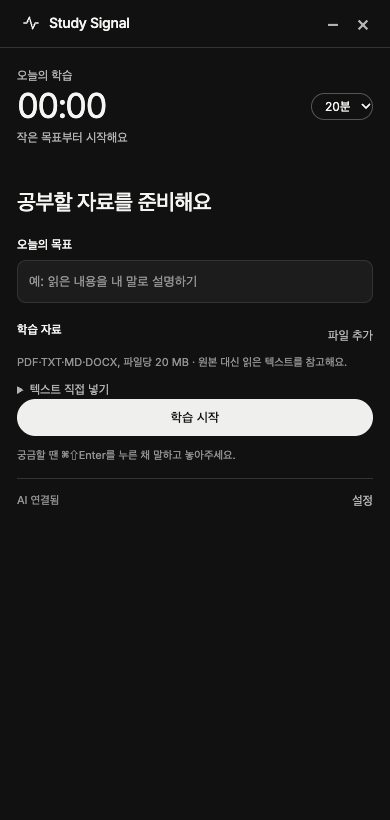
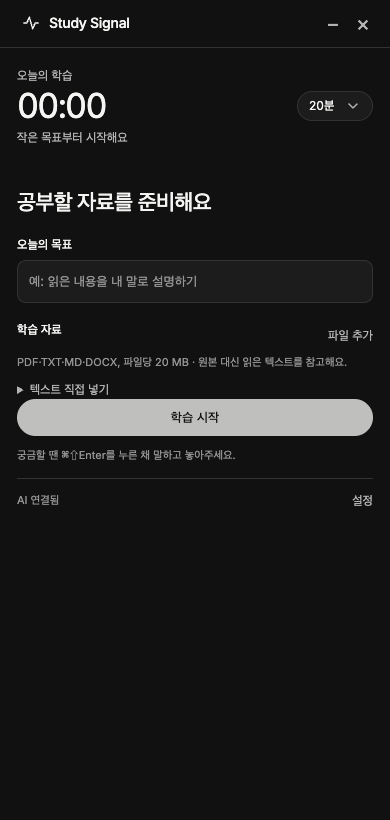
feat: unify select controls and connect live heart collector

Changed region(s): [[0.0308, 0.4878, 0.9538, 0.5488], [0.8, 0.122, 0.9538, 0.1524]]

diff --git a/overlay/index.html b/overlay/index.html
@@ -1,7 +1,7 @@
 <!doctype html>
 <html lang="ko"><head><meta charset="utf-8"><meta name="viewport" content="width=device-width,initial-scale=1">
 <meta http-equiv="Content-Security-Policy" content="default-src 'self'; script-src 'self' 'wasm-unsafe-eval'; style-src 'self'; font-src 'self'; img-src 'self' data: blob:; media-src 'self' blob:; connect-src 'self'; object-src 'none'; base-uri 'none'; form-action 'none'">
-<title>Study Signal</title><link rel="stylesheet" href="study-theme.css"><link rel="stylesheet" href="study.css"></head><body>
+<title>Study Signal</title><link rel="stylesheet" href="study-theme.css"><link rel="stylesheet" href="study.css"><link rel="stylesheet" href="study-select.css"></head><body>
 <header class="drag"><div class="brand"><svg viewBox="0 0 24 24" aria-hidden="true"><path d="M3 12h4l3-7 4 14 3-7h4"/></svg>Study Signal</div><span id="voice-indicator" hidden aria-live="polite">● 녹음 중</span><span id="mini-clock">00:00</span><div class="window-controls"><button id="collapse" aria-label="접기 또는 펼치기">−</button><button id="close" aria-label="메뉴 막대로 숨기기">×</button></div></header>
 <main>
 <div id="study-view">
@@ -19,7 +19,7 @@
 <details id="materials-manage" class="setting-group"><summary>학습 자료</summary><button id="materials-manage-add">자료 파일 추가</button><ul id="materials-manage-list" class="material-list"></ul><p id="materials-manage-note"></p><p>자료에서 읽은 텍스트를 질문할 때 함께 보내요. PDF 원본은 업로드하지 않아요.</p></details>
 <details id="plan-settings" class="setting-group"><summary>체크리스트</summary><label><input id="checklist-visible" type="checkbox" checked> 좌상단에 체크리스트 표시</label><label><input id="checklist-ai" type="checkbox"> 자료를 모델에 보내 학습 순서 정리</label><p>완료는 직접 체크하며, 자료별로 저장해요.</p><p id="checklist-status"></p><button id="checklist-regenerate">자료로 목록 다시 만들기</button><ol id="checklist-editor" class="checklist-editor"></ol></details>
 <details id="connection-settings" class="setting-group"><summary>AI 연결</summary><form id="connection-form"><label class="switch"><input id="ai" type="checkbox" checked> AI 도움 사용</label><label for="connection-key">OpenRouter API 키</label><input id="connection-key" type="password" autocomplete="off" spellcheck="false" maxlength="1024" placeholder="새 키를 입력할 때만 채워주세요"><p id="connection-key-state">연결 설정을 확인하고 있어요.</p><label for="connection-model">설명 모델 ID</label><input id="connection-model" value="anthropic/claude-sonnet-5.5" maxlength="255" spellcheck="false"><button id="connection-save" type="submit">저장 후 앱 다시 시작</button><p class="helper">키는 이 Mac에만 저장해요. 학습을 종료한 뒤 연결 설정을 변경해주세요.</p></form></details>
-<details id="extra-settings" class="setting-group"><summary>화면 · Apple Watch · 기록</summary><label class="opacity-control">배경 불투명도 <input id="opacity" type="range" min="72" max="98" value="90"><span id="opacity-value">90%</span></label><div class="watch-settings"><span>Apple Watch · 서버</span><strong id="heart-bpm">— <small>bpm</small></strong><button id="heart-toggle">서버 연결</button><p id="heart-status">심박 서버 미연결</p><p id="signal-note" class="signal-note">심박은 상태를 확인하는 참고 신호예요.</p></div><label><input id="training-consent" type="checkbox"> 검토한 텍스트 답변을 학습 예시로 저장</label><p class="helper">음성 화면 답변은 학습 예시로 저장하지 않아요.</p><p id="personalization">개인화 기록은 아직 없어요.</p></details>
+<details id="extra-settings" class="setting-group"><summary>화면 · Apple Watch · 기록</summary><label class="opacity-control">배경 불투명도 <input id="opacity" type="range" min="72" max="98" value="90"><span id="opacity-value">90%</span></label><div class="watch-settings"><span>심박 서버</span><strong id="heart-bpm">— <small>bpm</small></strong><button id="heart-toggle">서버 연결</button><p id="heart-status">심박 서버 미연결</p><p id="signal-note" class="signal-note">심박은 상태를 확인하는 참고 신호예요.</p></div><label><input id="training-consent" type="checkbox"> 검토한 텍스트 답변을 학습 예시로 저장</label><p class="helper">음성 화면 답변은 학습 예시로 저장하지 않아요.</p><p id="personalization">개인화 기록은 아직 없어요.</p></details>
 </section>
 <p id="error" class="error" role="alert" hidden></p><footer><span id="connection">연결 중</span><button id="settings-toggle" class="link">설정</button></footer>
 </main>

diff --git a/overlay/study-select.css b/overlay/study-select.css
@@ -1,0 +1,3 @@
+.study-select{display:inline-flex;vertical-align:middle;min-width:0;max-width:100%}.study-select>select{display:none!important}.study-select-trigger{display:grid;grid-template-columns:minmax(0,1fr) 16px;align-items:center;gap:10px;height:36px;min-width:108px;max-width:100%;padding:0 11px;border:1px solid var(--line);border-radius:9px;background:var(--surface);color:var(--ink);font:inherit;font-size:13px;line-height:20px;text-align:left;white-space:nowrap;-webkit-app-region:no-drag}.study-select-trigger:hover:not(:disabled){background:var(--raised);border-color:#555}.study-select-trigger[aria-expanded=true]{border-color:var(--accent)}.study-select-trigger:disabled{opacity:.5}.study-select-value{overflow:hidden;text-overflow:ellipsis}.study-select-trigger>svg{display:block;width:16px;height:16px;fill:none;stroke:var(--muted);stroke-width:1.5;stroke-linecap:round;stroke-linejoin:round;justify-self:end}.study-select-list{position:fixed;z-index:2500;padding:5px;overflow-y:auto;border:1px solid #484848;border-radius:11px;background:#252525;color:var(--ink);box-shadow:0 8px 28px #0007;scrollbar-width:thin;scrollbar-color:#666 transparent;font-size:13px;line-height:20px}.study-select-option{display:grid;grid-template-columns:16px minmax(0,1fr);align-items:center;gap:7px;padding:7px 8px;min-height:34px;border-radius:6px;cursor:pointer;overflow-wrap:anywhere}.study-select-option.active{background:#ffffff12}.study-select-option[aria-disabled=true]{opacity:.4;cursor:default}.study-select-check{color:var(--accent);font-size:13px}.session-top .study-select-trigger{height:30px;min-width:76px;border-radius:999px;font-size:12px}.settings label .study-select{margin-left:7px}.settings label .study-select-trigger{max-width:100%}
+
+.settings label.study-select-label{display:grid;grid-template-columns:max-content minmax(0,1fr);align-items:center;column-gap:12px}.settings label.study-select-label .study-select{margin-left:0;justify-self:end;min-width:0}.study-select-label .study-select-trigger{min-width:0;width:100%}

diff --git a/tests/study_select_ui_qa.py b/tests/study_select_ui_qa.py
@@ -1,0 +1,36 @@
+from pathlib import Path
+from http.server import ThreadingHTTPServer,SimpleHTTPRequestHandler
+from functools import partial
+import threading,json
+from playwright.sync_api import sync_playwright
+root=Path(__file__).resolve().parents[1]
+class Handler(SimpleHTTPRequestHandler):
+ def log_message(self,*_):pass
+server=ThreadingHTTPServer(('127.0.0.1',0),partial(Handler,directory=str(root)));threading.Thread(target=server.serve_forever,daemon=True).start()
+fixture='''<meta charset="utf-8"><link rel="stylesheet" href="/overlay/study-theme.css"><link rel="stylesheet" href="/overlay/study-select.css"><style>body{padding:24px}.settings{width:100%}label{margin-bottom:16px}button#outside{margin:12px 0}#bottom{position:fixed;bottom:12px;right:24px}</style><section class="settings"><label>이탈 감도 <select id="sensitivity"><option value="relaxed">여유롭게</option><option value="balanced" selected>보통</option><option value="sensitive">민감하게</option></select></label><label>알림 말투 <select id="tone"><option value="playful">장난스럽게</option><option disabled value="disabled">사용 불가</option><option value="firm">단호하게</option></select></label><button id="outside">다른 곳</button><select id="bottom" aria-label="아래 선택"><option>하나</option><option>둘</option><option>셋</option></select></section><script type="module">import {enhanceSelects} from '/overlay/study-select.mjs';window.changed=0;document.querySelector('#sensitivity').onchange=()=>window.changed++;enhanceSelects();</script>'''
+with sync_playwright() as p:
+ browser=p.chromium.launch(headless=True,executable_path='/Applications/Google Chrome.app/Contents/MacOS/Google Chrome');page=browser.new_page(viewport={'width':380,'height':360},device_scale_factor=2);errors=[];page.on('pageerror',lambda e:errors.append(str(e)))
+ page.route('**/select-fixture.html',lambda route:route.fulfill(content_type='text/html',body=fixture));page.goto(f'http://127.0.0.1:{server.server_port}/select-fixture.html');page.locator('.study-select-trigger').first.wait_for()
+ assert page.locator('.study-select-trigger').count()==3
+ button=page.get_by_role('combobox',name='이탈 감도');button.click();page.get_by_role('option',name='민감하게',exact=True).click();assert page.locator('#sensitivity').input_value()=='sensitive';assert page.evaluate('window.changed')==1
+ button.press('ArrowDown');button.press('Home');button.press('Enter');assert page.locator('#sensitivity').input_value()=='relaxed'
+ button.press('ArrowDown');button.press('End');button.press('Escape');assert page.locator('#sensitivity').input_value()=='relaxed';assert button.get_attribute('aria-expanded')=='false'
+ button.click();page.locator('#outside').click();assert button.get_attribute('aria-expanded')=='false'
+ tone=page.get_by_role('combobox',name='알림 말투');tone.press('ArrowDown');tone.press('Home');tone.press('ArrowDown');tone.press('Enter');assert page.locator('#tone').input_value()=='firm'
+ page.evaluate("document.querySelector('#sensitivity').value='balanced'");assert button.inner_text()=='보통'
+ page.evaluate("document.querySelector('#tone').disabled=true");page.wait_for_function("() => document.querySelector('[data-select-id=tone]').disabled")
+ page.evaluate("document.querySelector('#tone').disabled=false;const o=new Option('차분하게','calm');document.querySelector('#tone').append(o);document.querySelector('#tone').value='calm'");page.wait_for_function("() => document.querySelector('[data-select-id=tone]').textContent==='차분하게'")
+ for control in [button,tone]:
+  metrics=control.evaluate("el=>{const a=el.getBoundingClientRect(),b=el.querySelector('svg').getBoundingClientRect();return {dy:Math.abs(a.y+a.height/2-b.y-b.height/2),right:a.right-b.right}}")
+  assert metrics['dy']<=.5 and 8<=metrics['right']<=13,metrics
+ button.click();menu=page.locator('[role=listbox]:visible');assert menu.evaluate("el=>getComputedStyle(el).backgroundColor")=='rgb(37, 37, 37)';page.screenshot(path=str(root/'docs/qa/study-select.png'),omit_background=True)
+ before=page.locator('#sensitivity').input_value();button.press('Meta+Shift+Enter');assert page.locator('#sensitivity').input_value()==before;assert button.get_attribute('aria-expanded')=='false'
+ button.click();button.press('Tab');assert button.get_attribute('aria-expanded')=='false'
+ page.evaluate("() => {const wrap=document.querySelector('#bottom').parentElement;wrap.style.position='fixed';wrap.style.bottom='12px';wrap.style.right='24px';}")
+ page.get_by_role('combobox',name='아래 선택').click();bounds=page.locator('[role=listbox]:visible').bounding_box();assert bounds['y']>=8 and bounds['y']+bounds['height']<=352
+ assert page.evaluate('document.documentElement.scrollWidth')<=380
+ assert not errors,errors
+ report={'passed':['all selects enhanced','pointer choice updates existing change handler once','keyboard navigation and commit','Escape cancels','outside click closes','disabled option skipped','programmatic value sync','disabled state sync','dynamic options sync','chevrons vertically centered and equally inset','dark themed popup','global command shortcuts do not change selection','Tab closes','popup stays in viewport','380px no overflow'],'page_errors':errors}
+ (root/'docs/qa/study-select.json').write_text(json.dumps(report,ensure_ascii=False,indent=2)+'\n');print('Study Select: 15 scenarios passed')
+ browser.close()
+server.shutdown();server.server_close()

diff --git a/last_hour/heart_feed.py b/last_hour/heart_feed.py
@@ -31,7 +31,7 @@ def parse_sample(value, now):
         raise ValueError("An ISO 8601 timestamp with timezone is required") from None
     if not -10 <= now - at <= 60:
         raise ValueError("Stale or future sample")
-    if value["source"] not in {"apple_watch", "demo"}:
+    if value["source"] not in {"apple_watch", "demo", "collector"}:
         raise ValueError("Unknown heart rate source")
     if not isinstance(value["sample_id"], str) or not 1 <= len(value["sample_id"]) <= 128:
         raise ValueError("Invalid sample id")
@@ -47,6 +47,7 @@ class HeartRateFeed:
         self.stop_event = threading.Event()
         self.message = "심박 서버 미연결"
         self.running = False
+        self.legacy = None
 
     def accept(self, value):
         sample, at = parse_sample(value, self.clock())
@@ -58,7 +59,7 @@ class HeartRateFeed:
             if self.samples and at < self.samples[-1]["at"]:
                 return False
             self.samples.append({**sample, "at": at})
-            self.message = "데모 서버 신호" if sample["source"] == "demo" else "Apple Watch · 서버 수신"
+            self.message = "데모 서버 신호" if sample["source"] == "demo" else "심박 서버 수신 · 장치 출처 미표기" if sample["source"] == "collector" else "Apple Watch · 서버 수신"
             return True
 
     def status(self):
@@ -83,7 +84,25 @@ class HeartRateFeed:
             raw = response.read(4097)
         if len(raw) > 4096:
             raise ValueError("Heart response too large")
-        return json.loads(raw)
+        value = json.loads(raw)
+        parsed = urlsplit(url)
+        if parsed.hostname in {'localhost','127.0.0.1'} and parsed.path=='/hr' and isinstance(value,dict) and set(value)=={'bpm','age'}:
+            return self.normalize_local_collector(value)
+        return value
+
+    def normalize_local_collector(self, value):
+        # This collector exposes receipt age, not a Watch measurement ID/time.
+        # Cache the inferred receipt instant so polling never refreshes an old reading.
+        if value['bpm'] is None and value['age'] is None:return {'status':'waiting'}
+        age=value['age'];bpm=value['bpm']
+        if type(age) not in (int,float) or not math.isfinite(age) or age<0:raise ValueError('Invalid collector age')
+        if type(bpm) not in (int,float) or not math.isfinite(bpm) or not 20<=bpm<=250:raise ValueError('Invalid collector bpm')
+        if age>60:return {'status':'stale'}
+        at=self.clock()-age
+        if self.legacy and self.legacy['bpm']==bpm and abs(self.legacy['at']-at)<=.5:return dict(self.legacy['sample'])
+        sample={'bpm':bpm,'timestamp':datetime.fromtimestamp(at,timezone.utc).isoformat(),'source':'collector','sample_id':f'collector-{at:.3f}-{bpm}'}
+        self.legacy={'bpm':bpm,'at':at,'sample':sample}
+        return sample
 
     def start(self):
         url = os.getenv("STUDY_HEART_URL", "").strip()
@@ -103,14 +122,16 @@ class HeartRateFeed:
             stop_event = self.stop_event
             self.message = "심박 서버 응답 대기"
             self.samples.clear()
+            self.legacy=None
             def poll():
                 while not stop_event.is_set():
                     try:
                         value = (self.fetch or self._read)(url, token)
                         if stop_event.is_set():
                             return
-                        if not (isinstance(value, dict) and value.get("status") == "waiting"):
-                            self.accept(value)
+                        if isinstance(value,dict) and value.get('status') in {'waiting','stale'}:
+                            with self.lock:self.message='심박 측정값 대기 중' if value['status']=='waiting' else '심박 데이터가 오래됐어요'
+                        else:self.accept(value)
                     except Exception:
                         with self.lock:
                             self.message = "심박 서버 연결·인증·데이터 형식을 확인해주세요"
@@ -125,6 +146,7 @@ class HeartRateFeed:
             self.stop_event.set()
             self.message = "심박 서버 미연결"
             self.samples.clear()
+            self.legacy=None
 
 
 class HeartRelay:

diff --git a/tests/browser_ui_qa.py b/tests/browser_ui_qa.py
@@ -44,6 +44,10 @@ with sync_playwright() as p:
  audio=io.BytesIO()
  with wave.open(audio,'wb') as wav:wav.setnchannels(1);wav.setsampwidth(2);wav.setframerate(24000);wav.writeframes(b'\0\0'*72000)
  page.add_init_script("window.speechRequests=[];window.speechAudio="+json.dumps(base64.b64encode(audio.getvalue()).decode()))
+ def select_value(selector,value):
+  name=page.locator(selector).evaluate('(el,value)=>[...el.options].find(o=>o.value===value).label',value)
+  page.locator(f'button[data-select-id="{selector[1:]}"]').click()
+  page.locator('[role=listbox]:visible').get_by_role('option',name=name,exact=True).click()
  def start_voice():
   page.wait_for_function("() => document.getElementById('voice-enable').textContent.includes('끄기')")
   page.evaluate("async()=>{window.pendingTarget=document.getElementById('voice-target').value;window.recordId++;await window.voiceEvent({type:'start',data:{id:window.recordId,control:'hotkey',attachment:{display_id:1,width:2880,height:1800}}});}")
@@ -98,15 +102,15 @@ with sync_playwright() as p:
  assert page.evaluate("window.padEntries[0].status==='ready'")
  start_voice();page.locator('#voice-cancel').wait_for(state='visible');page.locator('#voice-cancel').click();page.wait_for_timeout(150)
  assert page.evaluate("window.actions.filter(a=>a.action==='voice-submit').length")==1
- page.evaluate('window.replyDocument=true');settings('voice-settings');page.locator('#voice-target').select_option('manual');page.locator('#voice-enable').click();study()
+ page.evaluate('window.replyDocument=true');settings('voice-settings');select_value('#voice-target','manual');page.locator('#voice-enable').click();study()
  start_voice();page.wait_for_timeout(1200);release_voice();page.locator('#region-editor').wait_for(state='visible')
  page.mouse.move(30,250);page.mouse.down();page.mouse.move(350,620);page.mouse.up();page.locator('#region-save').click();page.locator('#region-editor').wait_for(state='hidden')
  page.wait_for_function("() => document.querySelectorAll('#chat .assistant').length===2")
  assert page.evaluate("window.padEntries.at(-1).message.artifact.summary==='메모리 가까이에서 추론 연산을 처리해요.'")
  page.evaluate("async()=>{await window.voiceEvent({type:'processing'});await window.voiceEvent({type:'cancel',data:'시험 취소'});}");page.wait_for_timeout(100)
  assert page.evaluate("window.padEntries.at(-1).status==='error'")
- settings('voice-settings');page.locator('#voice-target').select_option('screen');page.locator('#voice-enable').click();settings('speech-settings')
- page.locator('#tts-mode').select_option('natural');page.locator('#tts-voice').select_option('Kore');page.locator('#tts-preview').click()
+ settings('voice-settings');select_value('#voice-target','screen');page.locator('#voice-enable').click();settings('speech-settings')
+ select_value('#tts-mode','natural');select_value('#tts-voice','Kore');page.locator('#tts-preview').click()
  page.wait_for_function("() => document.getElementById('tts-status').textContent.includes('읽고 있어요')")
  assert page.evaluate("window.speechRequests[0].voice==='Kore'&&window.speechRequests[0].kind==='preview'&&window.speechRequests[0].consent")
  page.evaluate("window.appAction({action:'bubble-tts-stop'})");page.locator('#tts-stop').wait_for(state='hidden')

diff --git a/tests/test_heart_collector.py b/tests/test_heart_collector.py
@@ -1,0 +1,18 @@
+import unittest
+from last_hour.heart_feed import HeartRateFeed
+class LocalCollectorTests(unittest.TestCase):
+ def setUp(self):self.now=1000.;self.feed=HeartRateFeed(clock=lambda:self.now);self.feed.running=True
+ def test_receipt_age_is_preserved_and_polling_does_not_invent_new_samples(self):
+  first=self.feed.normalize_local_collector({'bpm':72,'age':3});self.feed.accept(first);self.now+=2
+  second=self.feed.normalize_local_collector({'bpm':72,'age':5});self.assertEqual(first,second);self.assertFalse(self.feed.accept(second));self.assertEqual(self.feed.status()['sample_count'],1)
+  self.now+=20;third=self.feed.normalize_local_collector({'bpm':72,'age':25});self.assertEqual(first,third);self.assertFalse(self.feed.status()['connected']);self.assertIsNone(self.feed.status()['bpm'])
+ def test_new_receipt_is_distinct_even_when_bpm_is_identical(self):
+  first=self.feed.normalize_local_collector({'bpm':72,'age':0});self.feed.accept(first);self.now+=3
+  second=self.feed.normalize_local_collector({'bpm':72,'age':0});self.assertNotEqual(first['sample_id'],second['sample_id']);self.feed.accept(second)
+  self.assertEqual(self.feed.status()['source'],'collector');self.assertNotIn('Apple Watch',self.feed.status()['message'])
+ def test_waiting_stale_invalid_values_and_disconnect(self):
+  self.assertEqual(self.feed.normalize_local_collector({'bpm':None,'age':None}),{'status':'waiting'})
+  self.assertEqual(self.feed.normalize_local_collector({'bpm':72,'age':61}),{'status':'stale'})
+  for value in [{'bpm':True,'age':0},{'bpm':72,'age':-1},{'bpm':72,'age':float('nan')}]:
+   with self.assertRaises(ValueError):self.feed.normalize_local_collector(value)
+  self.feed.accept(self.feed.normalize_local_collector({'bpm':72,'age':0}));self.feed.stop();self.assertIsNone(self.feed.legacy);self.assertEqual(self.feed.status()['sample_count'],0)

diff --git a/scripts/bundled_core.py b/scripts/bundled_core.py
@@ -9,7 +9,7 @@ def main():
  from last_hour.config import load_env,DEFAULT_MODEL
  load_env()
  if sys.argv[1:]==['--startup-config']:
-  print(json.dumps({'token':os.getenv('LAST_HOUR_TOKEN',''),'gaze_model':os.getenv('STUDY_GAZE_MODEL','unigaze_l16_joint'),'key_configured':bool(os.getenv('OPENROUTER_API_KEY','').strip()),'model':os.getenv('STUDY_MODEL_ID','').strip() or os.getenv('OPENROUTER_MODEL',DEFAULT_MODEL)}));return 0
+  print(json.dumps({'token':os.getenv('LAST_HOUR_TOKEN',''),'heart_autoconnect':os.getenv('STUDY_HEART_AUTOCONNECT','').lower() in {'1','true'},'gaze_model':os.getenv('STUDY_GAZE_MODEL','unigaze_l16_joint'),'key_configured':bool(os.getenv('OPENROUTER_API_KEY','').strip()),'model':os.getenv('STUDY_MODEL_ID','').strip() or os.getenv('OPENROUTER_MODEL',DEFAULT_MODEL)}));return 0
  parser=argparse.ArgumentParser();sub=parser.add_subparsers(dest='command',required=True)
  serve=sub.add_parser('serve');serve.add_argument('--port',type=int,required=True)
  material=sub.add_parser('extract-material');material.add_argument('path')

diff --git a/README.md b/README.md
@@ -1,4 +1,4 @@
-# Study Signal v0.11.2 · 화면 번역과 스크래치패드
+# Study Signal v0.11.3 · 화면 번역과 스크래치패드
 
 좌상단 반투명 스크래치패드에 **화면 번역·요약·메모를 모읍니다**. 음성 단축키로 화면 내용을 질문하고 우하단 버블에서 답변을 확인하며 **화면 응시·이탈 상태**를 확인합니다. 텍스트 질문과 음성 질문을 작은 좌상단 채팅창에서 이어갑니다. 메뉴 막대의 파형 시그널 아이콘으로 설정을 엽니다.
 
@@ -10,7 +10,7 @@
 
 ## 실행과 사용
 
-Mac 설치판은 `Study-Signal-0.11.2-arm64.dmg`입니다. Apple Silicon·macOS 15 이상용으로 음성·번역용 기본 런타임을 포함하며 시선 모델과 PyTorch는 포함하지 않습니다. 기본 DMG는 약 168 MB이며 시선 기능은 나중에 선택 설치합니다. DMG의 앱을 Applications로 옮겨 실행하고, 메뉴 막대 아이콘 또는 ⌘,에서 API 키를 입력합니다. 설정·보정·기록은 앱 밖의 Application Support에 유지합니다. Apple 공증 전의 개발 빌드입니다. 자세한 내용은 [Mac 설치 안내](docs/macos.md)를 보세요.
+Mac 설치판은 `Study-Signal-0.11.3-arm64.dmg`입니다. Apple Silicon·macOS 15 이상용으로 음성·번역용 기본 런타임을 포함하며 시선 모델과 PyTorch는 포함하지 않습니다. 기본 DMG는 약 168 MB이며 시선 기능은 나중에 선택 설치합니다. DMG의 앱을 Applications로 옮겨 실행하고, 메뉴 막대 아이콘 또는 ⌘,에서 API 키를 입력합니다. 설정·보정·기록은 앱 밖의 Application Support에 유지합니다. Apple 공증 전의 개발 빌드입니다. 자세한 내용은 [Mac 설치 안내](docs/macos.md)를 보세요.
 
 아래는 소스에서 실행하는 방법입니다.
 
@@ -91,3 +91,5 @@ UniGaze-L 체크포인트는 선택 시선 패키지에만 포함되며 약 1.22
 개발용 배포 ZIP은 프로젝트에서 `python3 scripts/package_study.py`로 다시 만들 수 있습니다. 메뉴 아이콘 PNG 재생성은 Playwright 환경에서 `python3 scripts/render_tray.py`를 실행합니다.
 
 음성 읽기는 기본 `google/gemini-3.8-flash-tts` / Aoede입니다. 설정에서 목소리 선택·미리 듣기·Mac 기본 음성 전환을 할 수 있습니다. 버블의 **읽기 멈춤** 또는 새 질문 시작으로 재생을 멈춥니다. AI 음성은 읽을 문장을 기존 OpenRouter 계정으로 전송하며 별도 사용료가 발생합니다. 생성 음성은 디스크에 저장하지 않습니다.
+
+설정의 모든 셀렉트는 study-select.mjs 공통 컴포넌트를 사용한다. 어두운 팝업, 화살표 중앙 정렬, 키보드 탐색/선택·취소, 비활성 옵션, 모니터 목록 갱신을 지원하며 기존 설정 값과 이벤트를 그대로 사용한다. [UI 검증](docs/qa/study-select.json). 기존 로컬 심박 수집기의 /hr 응답과 선택 자동 연결도 지원한다. [심박 서버](docs/heart-server.md).

diff --git a/docs/heart-server.md b/docs/heart-server.md
@@ -48,3 +48,11 @@ python3 -m last_hour heart-relay --host 127.0.0.1 --port 8787
 응답은 `{"accepted":true}`이며 같은 ID 재전송은 `{"accepted":false,"reason":"duplicate"}`입니다. 이전 시각의 새 ID 샘플은 거절합니다. 최신 한 값을 메모리에만 유지하고 재시작하면 사라집니다. 요청 본문과 토큰을 로그에 출력하지 않습니다. 브라우저 Origin이 있는 요청은 거절합니다.
 
 외부 수집 서비스로 사용할 때는 별도 서버에 배포하고 HTTPS reverse proxy·기기별 인증·접근 제어를 구성해야 합니다. 현재 개발 릴레이는 단일 사용자용 메모리 프로토타입입니다. 서버 배포와 실제 Watch 전송은 아직 수행하지 않았습니다.
+
+## 기존 로컬 /hr 수집기 연결
+
+이 앱은 localhost 또는 127.0.0.1의 GET /hr가 `{"bpm":72,"age":1.2}` 형식을 반환하는 수집기도 읽을 수 있다. 여기서 age는 서버 수신 후 지난 초다. 장치 출처/실제 측정 시각을 보장하지 않으므로 source=collector로 표시한다. 같은 수신값을 재폴링해도 새로운 측정으로 세거나 유효 시간을 연장하지 않는다. 20초보다 오래된 값은 숫자를 숨긴다.
+
+개인 .env에서 STUDY_HEART_URL을 로컬 /hr 주소로 두고 STUDY_HEART_AUTOCONNECT=1을 설정하면 앱 시작 시 연결한다. 기본값은 자동 연결하지 않음이다. 읽기 인증이 없는 기존 로컬 수집기는 STUDY_HEART_TOKEN을 비워둔다. 서버의 공개 ingest 토큰이나 휴대폰 전송 주소는 변경하지 않는다.
+
+확인: 기존 서버 실행을 유지한 채 읽기 연결, 오래된 값 차단/중복 방지 단위 시험, 실행 중인 앱의 authenticated /study/heart에서 connected=true를 확인했다. 실제 심박 숫자·장치 토큰·개인 서버 파일은 배포 코드와 검증 파일에 기록하지 않았다.

diff --git a/docs/macos.md b/docs/macos.md
@@ -24,7 +24,7 @@ SVG 원본: `overlay/assets/StudySignalTemplate.svg`. macOS 표시에는 투명 
 
 ## v0.11 DMG 설치판
 
-`Study-Signal-0.11.2-arm64.dmg`는 Apple Silicon(M1 이상), macOS 15 이상용이다. DMG를 열어 Study Signal.app을 Applications로 옮겨 실행한다. Electron·가벼운 Python 백엔드를 포함해 Node.js/Homebrew/Python을 별도로 설치하지 않는다.
+`Study-Signal-0.11.3-arm64.dmg`는 Apple Silicon(M1 이상), macOS 15 이상용이다. DMG를 열어 Study Signal.app을 Applications로 옮겨 실행한다. Electron·가벼운 Python 백엔드를 포함해 Node.js/Homebrew/Python을 별도로 설치하지 않는다.
 
 설정은 **⌘,**(앱에 포커스가 있을 때) 또는 메뉴 막대 아이콘 → 설정에서 연다. OpenRouter 키를 입력하고 ‘저장 후 앱 다시 시작’을 누른다. 키 입력칸을 비우면 기존 키를 유지한다. 진행 중인 학습은 종료한 뒤 저장한다.
 
@@ -63,3 +63,5 @@ OpenRouter의 Gemini TTS를 기본으로 사용한다. 연결 키는 기존 키 
 ## 시선 감지 추가 설치
 
 기본 DMG에는 PyTorch·OpenCV·UniGaze 모델이 없다. 시선 기능은 별도 Study-Signal-Gaze-arm64-v1.zip을 다운로드하고 설정 → 시선 감지 설치…에서 선택해 설치한다. 진행률과 취소를 지원한다. 키/기록을 변경하지 않으며 설치된 구성 요소는 Application Support/Study Signal/components/gaze-v1에 남는다. 설치 후 감지 켜기를 눌러 카메라를 시작한다. [자세한 검증](optional-gaze.md)
+
+설정 셀렉트는 OS 기본 메뉴 대신 앱 공통 컴포넌트를 사용한다. 방향키/Home/End로 탐색하고 Enter로 선택, Escape로 취소한다. Cmd 단축키는 설정 선택에 가로채지 않는다.

diff --git a/docs/architecture.md b/docs/architecture.md
@@ -50,3 +50,5 @@ index.html과 scratchpad.html은 study-theme.css를 공유한다. study-opacity 
 앱의 gaze-installer.cjs는 네이티브 선택 파일을 고정 manifest의 크기·SHA-256으로 확인하도록 core의 install-gaze를 실행한다. gaze_install.py는 경로·링크·파일 수·압축 해제 크기를 검사하고 같은 파일시스템의 임시 폴더에서 실행 환경을 검증한 뒤 원자적으로 교체한다. 실패/취소는 임시 폴더를 제거하며 기존 학습 데이터와 설정을 건드리지 않는다.
 
 설치 상태 확인은 작은 marker/파일 존재 확인이며 대용량 모델을 읽지 않는다. 미설치 상태에서는 startStudy가 카메라 준비를 건너뛴다. 설치 완료 자체로 카메라/모델을 실행하지 않는다.
+
+StudySelect는 native select를 비표시 데이터 모델로 유지하고 button[role=combobox]/portal listbox로 렌더링한다. value 대입·change/input·옵션/disabled 변경을 동기화하며 모든 기존 설정 코드를 유지한다. 로컬 /hr 호환은 HeartRateFeed의 메모리 어댑터에서 수신 나이를 보존해 collector 출처로 처리한다. 실제 Watch 측정 시각이라고 주장하지 않는다.
